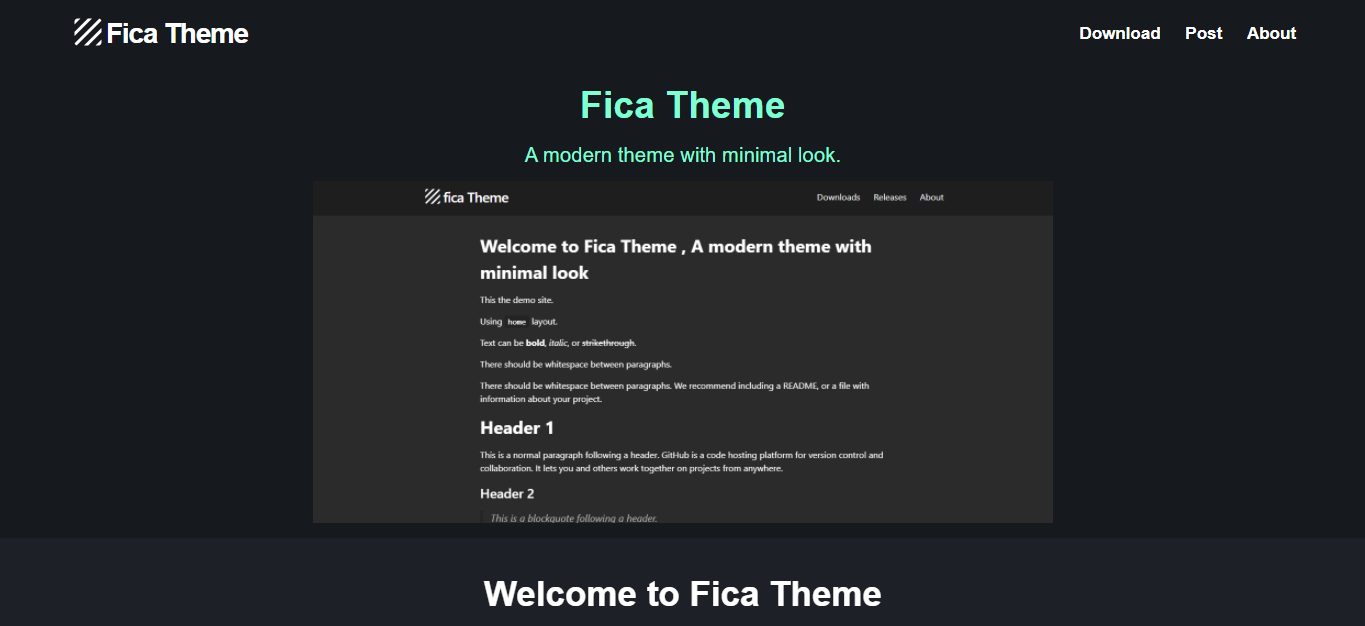
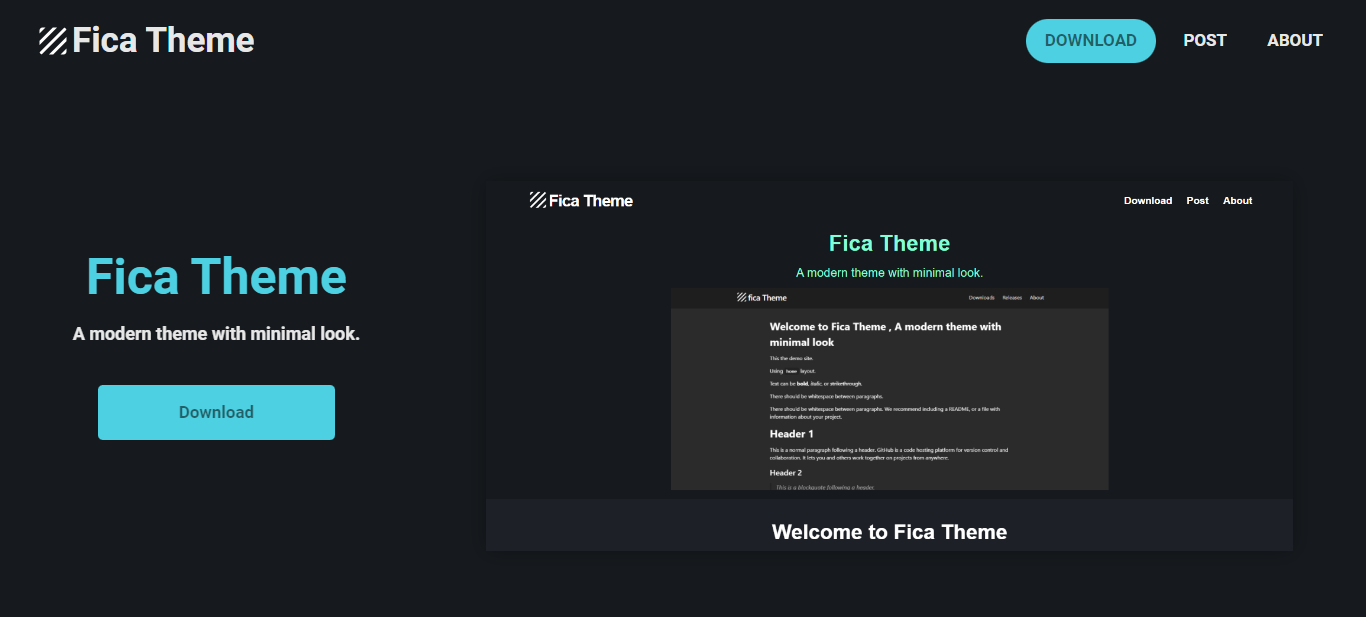
padding and font improvements and updated homepage pic

diff --git a/_sass/layouts/layout.scss b/_sass/layouts/layout.scss
@@ -8,6 +8,8 @@
   height: 80px;
   width: 100%;
   z-index: 100;
+  padding-top: 5px;
+  padding-bottom: 5px;
   .site-nav-link-container {
     margin-right: 25px;
     margin-left: 0;
@@ -26,17 +28,17 @@
       }
     }
   }
+
   a {
-    line-height: 80px;
     margin: 0 5px;
     color: $text-color;
     font-size: 17px;
     padding: 7px 13px;
     border-radius: 3px;
-    text-transform: uppercase;
     transition: $transition-links;
     @include animation-fade-in(0.6);
-
+    @include title-small;
+    text-transform: uppercase;
     &:hover {
       color: $text-mute-color;
     }
@@ -140,6 +142,9 @@
         }
       }
     }
+    a {
+      line-height: 80px;
+    }
   }
 }
 // .sticky {
@@ -188,13 +193,14 @@
     > a {
       display: block;
       margin-top: 30px;
-      padding: 15px 81px;
+      padding: 21px 81px;
       border: none;
       border-radius: 15px;
       cursor: pointer;
       color: $BTT-svg-color;
       background-color: $link-color;
       transition: $transition-btn;
+      @include title-medium;
 
       @include animation-fade-in(1.65);
 
@@ -224,7 +230,7 @@
     .site-banner-description {
       border-top: 8px;
       margin-bottom: 0%;
-      @include title-large;
+      @include title-medium;
       padding-bottom: 7px;
       @include animation-fade-in(1);
     }
@@ -484,7 +490,6 @@
 .site-footer {
   background-color: $footer-bg-color;
   padding-top: $font-spacing;
-  padding-bottom: 10px;
 
   .site-footer-wrapper {
     display: flex;
